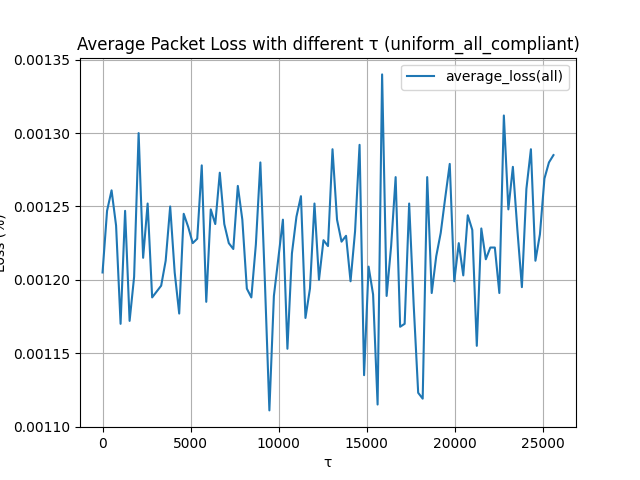
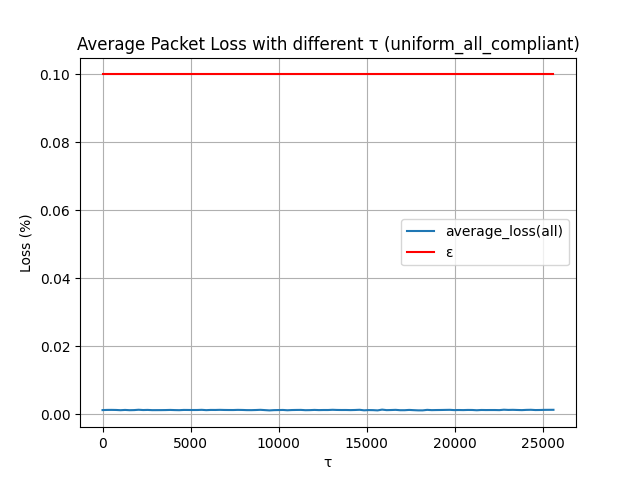
update average loss

Changed region(s): [[0.0, 0.0938, 0.9062, 0.875], [0.0312, 0.25, 0.125, 0.3125], [0.0, 0.8438, 0.125, 0.9062]]

diff --git a/Simulation/python/average_loss.py b/Simulation/python/average_loss.py
@@ -34,7 +34,7 @@ plt.cla()
 plt.plot(tau, average_loss_all, linestyle='-', label='average_loss(all)')
 plt.title('Average Packet Loss with different τ ({})'.format(name))
 
-# plt.plot(tau, [float(config['simulation']['error'])*100 for i in tau], linestyle='-', color = 'red', label='ε')
+plt.plot(tau, [float(config['simulation']['error'])*100 for i in tau], linestyle='-', color = 'red', label='ε')
 
 plt.xlabel('τ')
 plt.ylabel('Loss (%)')
